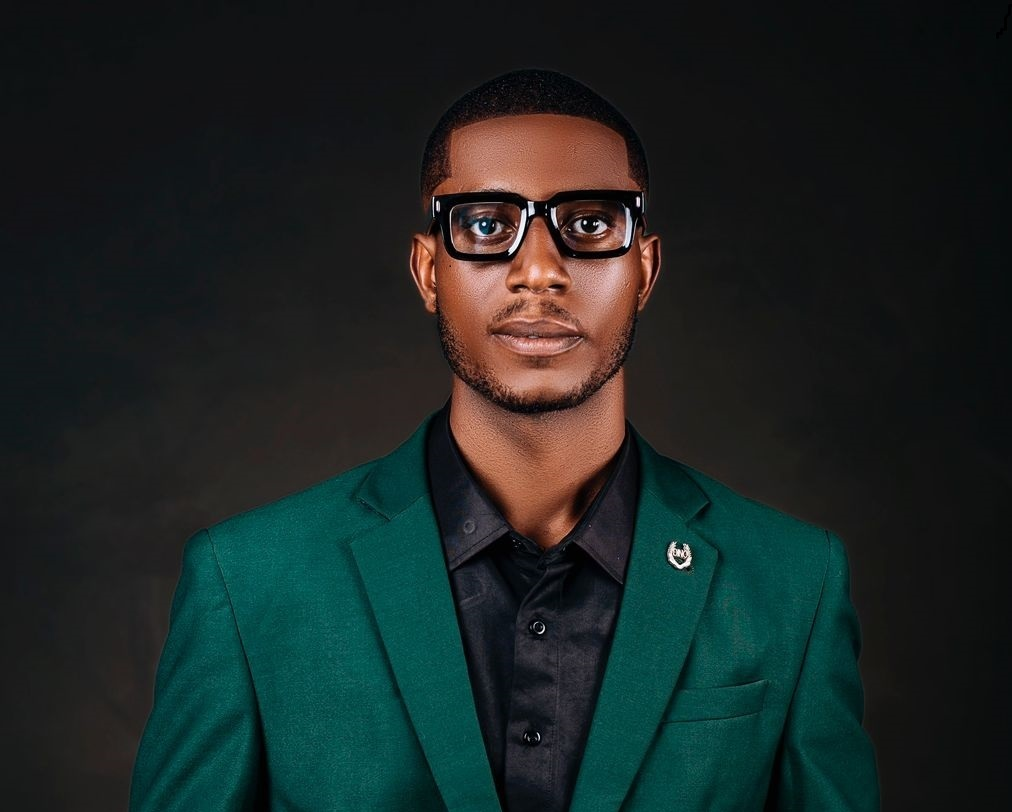
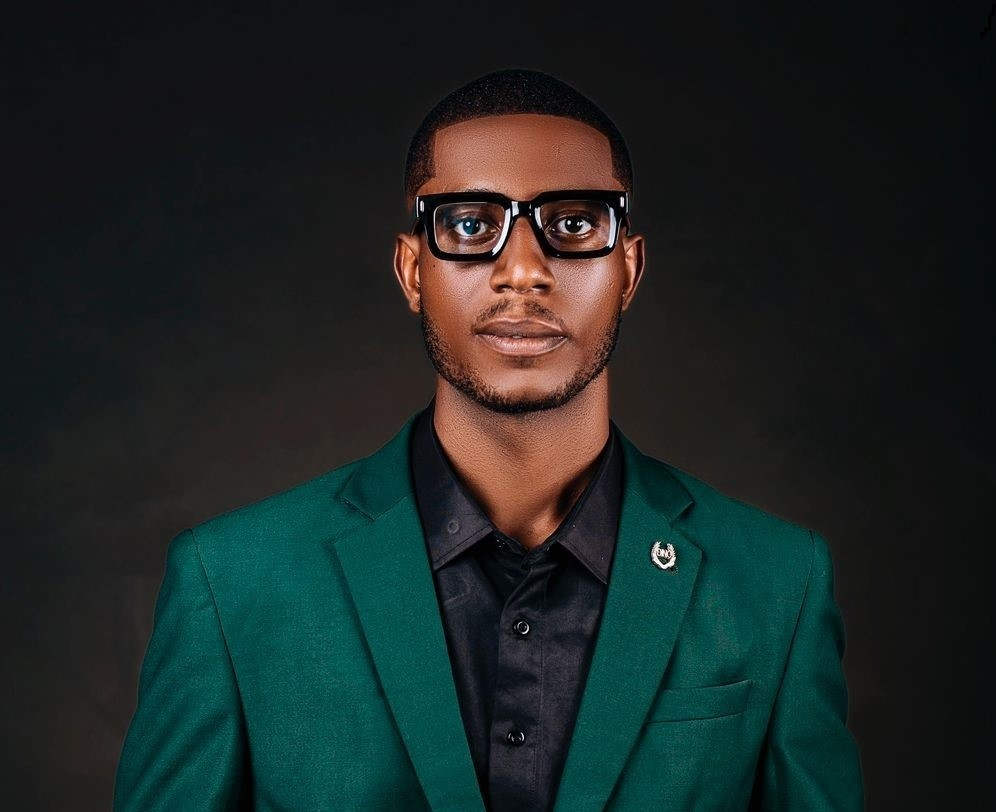
pic

diff --git a/components/HeroCard.tsx b/components/HeroCard.tsx
@@ -38,7 +38,7 @@ const HeroCard = (props: Props) => {
           <div className="flex w-full h-full flex-col md:flex-row items-center gap-8">
             <div className="flex flex-col justify-between w-full h-full items-center ">
                 <Image
-                  src={"/exibi.jpg"}
+                  src={"/exi.jpg"}
                   alt="user"
                   width={200}
                   height={200}
